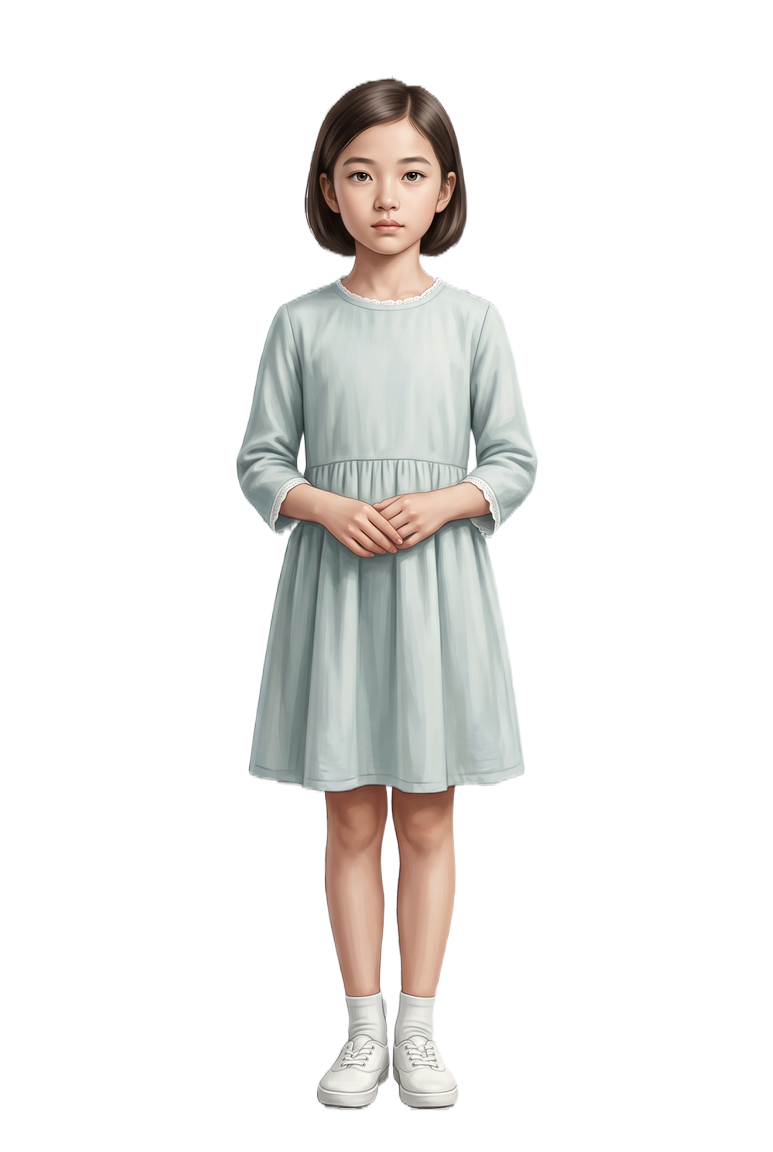
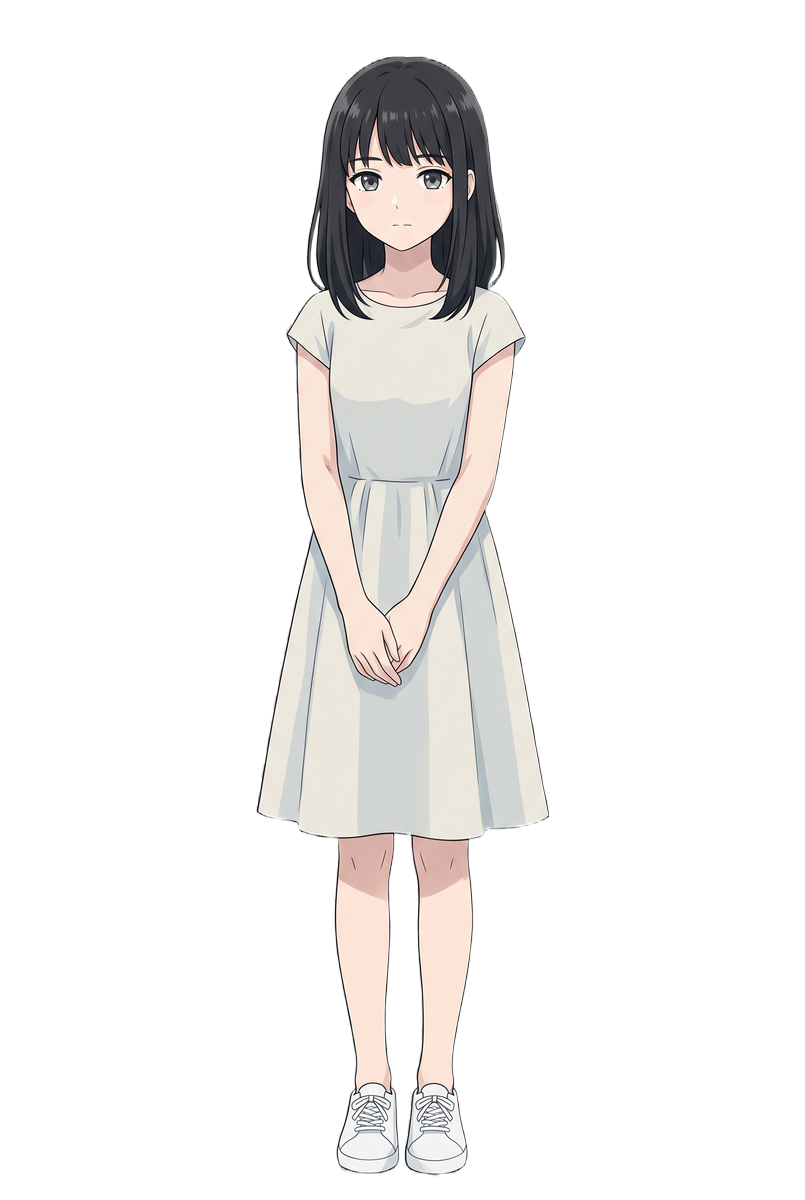
feat: 重生成7张角色立绘为日系二次元透明风格，覆盖旧写实风

Changed region(s): [[0.3105, 0.0312, 0.7141, 1.0], [0.4968, 0.3125, 0.5278, 0.3438]]

diff --git a/.codebuddy/memory/2026-08-26.md b/.codebuddy/memory/2026-08-26.md
@@ -54,3 +54,11 @@
 ## 架构现状结论
 - **所有场景 now 均为模式 B（screens）**：office(3屏)/lobby(4屏环形)/courtyard(3屏)/corridor(4屏)/crime_scene(3屏)。`_EnterParallax` 已成死代码（保留无害）。SceneManager 的 screens 分支为通用实现（翻页/小地图/引导/物件交互内置），新增场景只需在 GameData 加 screens 数据。
 - **onSpecialInteract 正确用法**：SceneManager 回调应传整个 item（非 item.onInteract 字符串）；main.lua `HandleSpecialInteract(obj, onComplete)` 读 `obj.onInteract`。
+
+## 生成全部17张解密关卡Screen整图（2026-08-26 晚）
+- **用户指令**："生成吧"——确认生成 `docs/ai-image-prompts.md`(v2.1) 定义的全部 17 张 Screen 整图。
+- **工具**：`batch_generate_images`（taptap-maker）。服务串行处理 batch 内多图且 lobby/案发现场单张耗时较长，10/4/2 张批均超时(-32001)；最终改**单张串行+超时重试**成功。
+- **结果**：office_screen1-3 / lobby_screen1-4 / courtyard_screen1-3 / corridor_screen1-4 / crime_scene_screen1-3 共 17 张（1920×1080 日系二次元）全部生成，重命名为代码引用名（去时间戳），并清理超时批次落盘的重复孤儿 png。
+- **构建**：commit c80dca3，远程构建 100% 成功；Maker 自动为每张 png 生成 `.meta`。中途因远端领先本地 1 个提交导致 build 阻塞，先 `git pull --ff-only origin main` 同步后重建成功。
+- **遗留**：`bg_hotel_lobby/courtyard/corridor.png` + `bg_crime_scene.png` 为旧视差背景（代码未引用）；另有 `日系二次元动漫风格_豪华酒店套房内部全景_2510客房_案发_2026-08-25T15-02-06.png` 为不规范命名的遗留图，可清理。
+- **下一步**：7 张角色立绘仍是 08-24 写实风，与日系二次元背景不一致，待重生成 `char_*.png`。

diff --git a/.codebuddy/memory/MEMORY.md b/.codebuddy/memory/MEMORY.md
@@ -46,7 +46,7 @@
 - **中文路径坑（execute_command）**：PowerShell 传入含中文的绝对路径会乱码（`Set-Location : 找不到路径…鐙珛娓告垙`）。规避：(a) 用通配符 `03_*` 匹配 `03_独立游戏` 目录；(b) git 命令不带 `-C` 直接用 cwd（shell 工作目录已是项目根）。
 
 ## 待办（后续开发）
-- **场景图片资源**：`docs/ai-image-prompts.md`(v2.1) 已定义 **17 张 Screen 整图 + 开场背景**，引用名 lobby/courtyard/corridor/crime_scene + office_screen1/2/3.png 等。**尚未生成**，当前以 backgroundColor 色块占位；生成后放入 `assets/image/`。视差三图(bg_office_bg/mid/fg)已弃用。
+- **场景图片资源**：`docs/ai-image-prompts.md`(v2.1) 已定义 **17 张 Screen 整图 + 开场背景**，引用名 lobby/courtyard/corridor/crime_scene + office_screen1/2/3.png 等。**已于 2026-08-26 全部生成**（1920×1080 日系二次元）并放入 `assets/image/`，Maker 自动生成 `.meta`。当前场景已显示真实整图。视差三图(bg_office_bg/mid/fg)已弃用；旧 `bg_hotel_lobby.png`/`bg_hotel_courtyard.png`/`bg_hotel_corridor.png`/`bg_crime_scene.png` 为遗留视差背景（代码 screens 模式未引用，可清理或保留）。
 - 角色立绘 ⚠ 7主角立绘仍是08-24"现代写实插画"风格，与背景的日系二次元风格**不一致**；待用户用 `docs/ai-image-prompts.md` 的 C1-C7 prompt 重生成并同名覆盖 `char_*.png`
 - 场景物件坐标基于 prompt 构图推断（非逐像素视觉），出图后可能需微调
 - 命案发现剧情触发（crime_scene 进入时机、张承宇登场）
